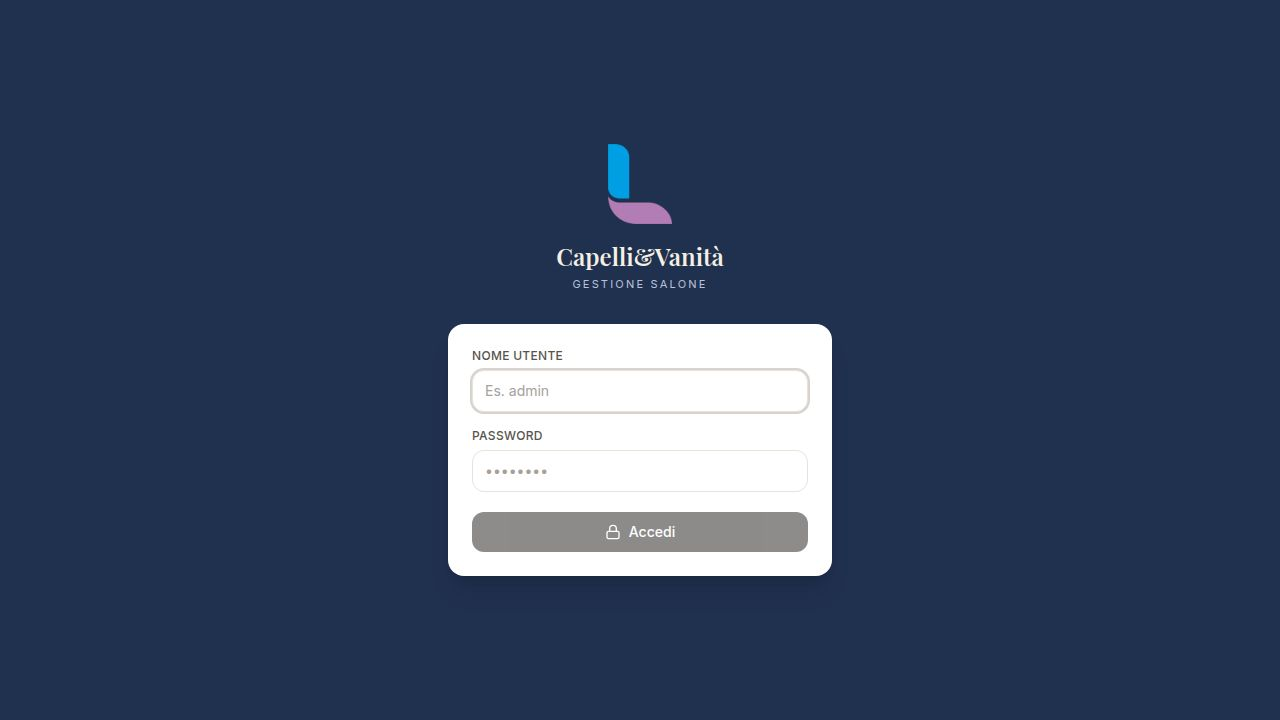
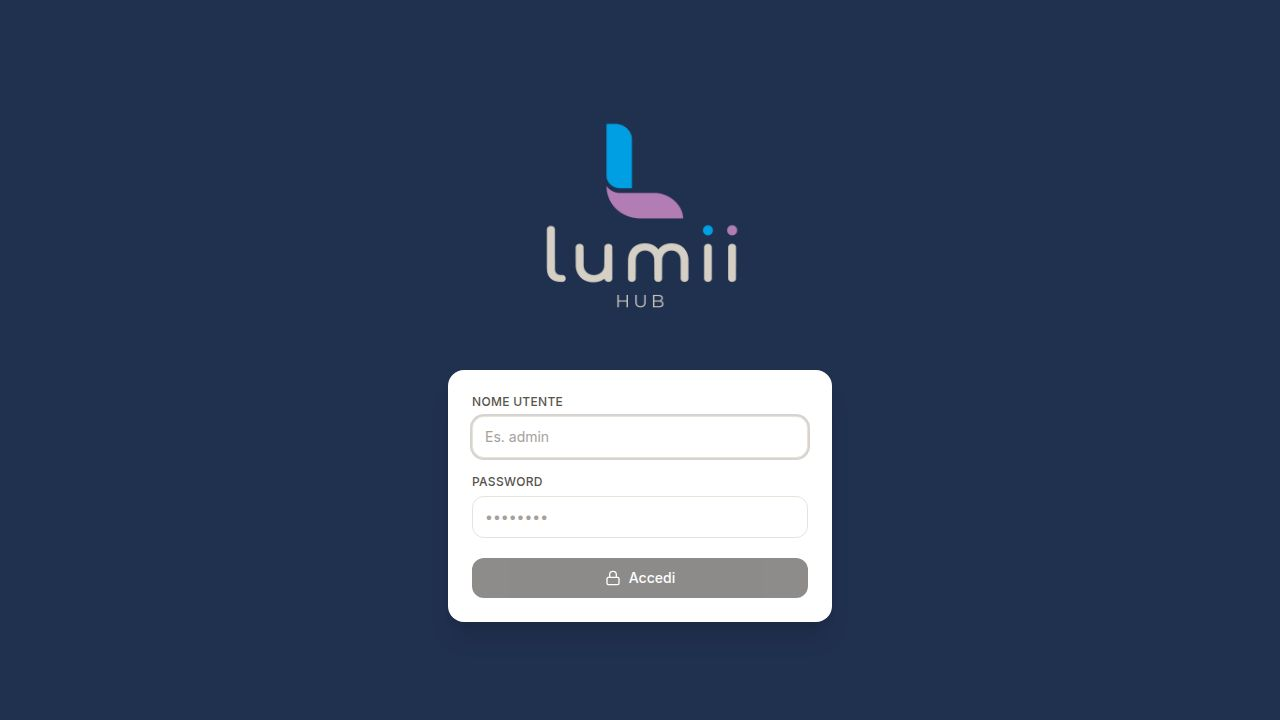
feat(pwa): avviso "Nuova versione disponibile" con tasto Aggiorna (Task #59)
Col service worker attivo, dopo un deploy gli utenti restavano sulla
versione in cache finché non chiudevano tutte le schede. Ora un banner
avvisa e permette di aggiornare subito.

Implementazione (solo frontend, @user/hirhub):
- vite.config.ts: registerType "autoUpdate" -> "prompt" (il nuovo SW resta
  in attesa invece di applicarsi in silenzio; skipWaiting via messaggio).
- Nuovo src/components/PwaReloadPrompt.tsx con useRegisterSW
  (virtual:pwa-register/react): se needRefresh mostra "Nuova versione
  disponibile" + "Aggiorna" (updateServiceWorker(true) => skipWaiting +
  reload) e una X per chiudere; null quando non c'è update.
- Montato in App.tsx accanto a <Toaster /> (fuori da AppGate, visibile
  anche in login).
- src/vite-env.d.ts: reference types per il modulo virtuale.
- devDependency workbox-window@7.4.1 (richiesta dal modulo; senza, build KO).

Aggiunta oltre al testo del task: controllo aggiornamenti periodico (1h,
onRegisteredSW + registration.update, solo se online) così una PWA tenuta
aperta tutto il giorno nota comunque le nuove versioni — serve all'obiettivo.

Deploy: rigenerato bundle lumii-app/ (frontend+server), rimosso il vecchio
registerSW.js (autoUpdate). BUILD_VERSION -> pwa-update-2026-06-11. Con più
task PWA in corso, un rebuild finale di lumii-app/ va rifatto dopo i merge.

Verifica: typecheck OK, build OK, sw.js message-gated, index.html un solo
script (no doppia registrazione), no-op in dev. Architect: PASS.

Changed region(s): [[0.3438, 0.1528, 0.6562, 0.8861]]

diff --git a/artifacts/hirhub/src/components/PwaReloadPrompt.tsx b/artifacts/hirhub/src/components/PwaReloadPrompt.tsx
@@ -1,0 +1,51 @@
+import { useRegisterSW } from 'virtual:pwa-register/react';
+import { RefreshCw, X } from 'lucide-react';
+
+// Check for a newer deploy periodically: an installed PWA kept open all day
+// (a salon front desk) would otherwise only notice updates on the next launch.
+const UPDATE_CHECK_INTERVAL_MS = 60 * 60 * 1000; // 1h
+
+export function PwaReloadPrompt() {
+  const {
+    needRefresh: [needRefresh, setNeedRefresh],
+    updateServiceWorker,
+  } = useRegisterSW({
+    onRegisteredSW(_swUrl, registration) {
+      if (!registration) return;
+      setInterval(() => {
+        if (!navigator.onLine) return;
+        registration.update().catch(() => {});
+      }, UPDATE_CHECK_INTERVAL_MS);
+    },
+  });
+
+  if (!needRefresh) return null;
+
+  return (
+    <div
+      role="alert"
+      className="fixed bottom-28 md:bottom-8 left-1/2 -translate-x-1/2 z-[10001] w-[calc(100vw-2rem)] max-w-sm"
+    >
+      <div
+        className="flex items-center gap-3 px-4 py-3 rounded-2xl shadow-xl text-sm"
+        style={{ background: 'var(--color-brand-dark)', color: '#F5F0E3' }}
+      >
+        <RefreshCw className="w-4 h-4 shrink-0 opacity-80" />
+        <span className="flex-1 font-medium">Nuova versione disponibile</span>
+        <button
+          onClick={() => updateServiceWorker(true)}
+          className="shrink-0 rounded-lg px-3 py-1.5 text-xs font-semibold bg-white/15 hover:bg-white/25 transition-colors"
+        >
+          Aggiorna
+        </button>
+        <button
+          onClick={() => setNeedRefresh(false)}
+          aria-label="Chiudi"
+          className="shrink-0 opacity-60 hover:opacity-100 transition-opacity"
+        >
+          <X className="w-4 h-4" />
+        </button>
+      </div>
+    </div>
+  );
+}

diff --git a/lumii-app/public/index.html b/lumii-app/public/index.html
@@ -15,9 +15,9 @@
     <link rel="preconnect" href="https://fonts.googleapis.com">
     <link rel="preconnect" href="https://fonts.gstatic.com" crossorigin>
     <link href="https://fonts.googleapis.com/css2?family=Inter:wght@400;500;600;700&display=swap" rel="stylesheet">
-    <script type="module" crossorigin src="/assets/index-DUAe65US.js"></script>
-    <link rel="stylesheet" crossorigin href="/assets/index-BZhQcItQ.css">
-  <link rel="manifest" href="/manifest.webmanifest"><script id="vite-plugin-pwa:register-sw" src="/registerSW.js"></script></head>
+    <script type="module" crossorigin src="/assets/index-RXGjO6um.js"></script>
+    <link rel="stylesheet" crossorigin href="/assets/index-CNQ0jW_i.css">
+  <link rel="manifest" href="/manifest.webmanifest"></head>
   <body>
     <div id="root"></div>
   </body>

diff --git a/artifacts/api-server/src/routes/health.ts b/artifacts/api-server/src/routes/health.ts
@@ -6,7 +6,7 @@ const router: IRouter = Router();
 // Build marker — bump when shipping a deploy you need to confirm went live.
 // Public (no auth) so it can be checked with a simple GET after a deploy:
 //   curl https://<dominio>/api/version
-const BUILD_VERSION = "logo-mobile-2026-06-11";
+const BUILD_VERSION = "pwa-update-2026-06-11";
 
 router.get("/healthz", (_req, res) => {
   const data = HealthCheckResponse.parse({ status: "ok" });

diff --git a/artifacts/hirhub/src/App.tsx b/artifacts/hirhub/src/App.tsx
@@ -13,6 +13,7 @@ import { Settings } from './pages/Settings';
 import { Users } from './pages/Users';
 import { Login } from './pages/Login';
 import { Toaster } from './components/Toast';
+import { PwaReloadPrompt } from './components/PwaReloadPrompt';
 import { AuthProvider, useAuth } from './lib/auth-context';
 import { BRAND_PRESETS, DEFAULT_PALETTE, paletteFromCustomColor, applyBrandPalette, saveBrandPalette } from './lib/brand-color';
 
@@ -86,6 +87,7 @@ export default function App() {
           <BrandColorSync />
           <AppGate />
           <Toaster />
+          <PwaReloadPrompt />
         </AuthProvider>
       </BrowserRouter>
     </QueryClientProvider>

diff --git a/artifacts/hirhub/src/vite-env.d.ts b/artifacts/hirhub/src/vite-env.d.ts
@@ -1,0 +1,2 @@
+/// <reference types="vite/client" />
+/// <reference types="vite-plugin-pwa/react" />

diff --git a/artifacts/hirhub/vite.config.ts b/artifacts/hirhub/vite.config.ts
@@ -25,7 +25,7 @@ export default defineConfig({
     tailwindcss(),
     runtimeErrorOverlay(),
     VitePWA({
-      registerType: "autoUpdate",
+      registerType: "prompt",
       injectRegister: "auto",
       includeAssets: [
         "favicon-32x32.png",

diff --git a/lumii-app/public/assets/workbox-window.prod.es5-BBnX5xw4.js b/lumii-app/public/assets/workbox-window.prod.es5-BBnX5xw4.js
@@ -1,0 +1,2 @@
+try{self["workbox:window:7.4.0"]&&_()}catch{}function b(t,r){return new Promise((function(n){var u=new MessageChannel;u.port1.onmessage=function(s){n(s.data)},t.postMessage(r,[u.port2])}))}function P(t,r){(r==null||r>t.length)&&(r=t.length);for(var n=0,u=Array(r);n<r;n++)u[n]=t[n];return u}function j(t,r,n){return r&&(function(u,s){for(var c=0;c<s.length;c++){var o=s[c];o.enumerable=o.enumerable||!1,o.configurable=!0,"value"in o&&(o.writable=!0),Object.defineProperty(u,W(o.key),o)}})(t.prototype,r),Object.defineProperty(t,"prototype",{writable:!1}),t}function S(t,r){var n=typeof Symbol<"u"&&t[Symbol.iterator]||t["@@iterator"];if(n)return(n=n.call(t)).next.bind(n);if(Array.isArray(t)||(n=(function(s,c){if(s){if(typeof s=="string")return P(s,c);var o={}.toString.call(s).slice(8,-1);return o==="Object"&&s.constructor&&(o=s.constructor.name),o==="Map"||o==="Set"?Array.from(s):o==="Arguments"||/^(?:Ui|I)nt(?:8|16|32)(?:Clamped)?Array$/.test(o)?P(s,c):void 0}})(t))||r){n&&(t=n);var u=0;return function(){return u>=t.length?{done:!0}:{done:!1,value:t[u++]}}}throw new TypeError(`Invalid attempt to iterate non-iterable instance.
+In order to be iterable, non-array objects must have a [Symbol.iterator]() method.`)}function w(t,r){return w=Object.setPrototypeOf?Object.setPrototypeOf.bind():function(n,u){return n.__proto__=u,n},w(t,r)}function W(t){var r=(function(n,u){if(typeof n!="object"||!n)return n;var s=n[Symbol.toPrimitive];if(s!==void 0){var c=s.call(n,u);if(typeof c!="object")return c;throw new TypeError("@@toPrimitive must return a primitive value.")}return String(n)})(t,"string");return typeof r=="symbol"?r:r+""}try{self["workbox:core:7.4.0"]&&_()}catch{}var m=function(){var t=this;this.promise=new Promise((function(r,n){t.resolve=r,t.reject=n}))};function y(t,r){var n=location.href;return new URL(t,n).href===new URL(r,n).href}var d=function(t,r){this.type=t,Object.assign(this,r)};function l(t,r,n){return t&&t.then||(t=Promise.resolve(t)),r?t.then(r):t}function k(){}var L={type:"SKIP_WAITING"};function E(t,r){return t&&t.then?t.then(k):Promise.resolve()}var O=(function(t){function r(c,o){var e,i;return o===void 0&&(o={}),(e=t.call(this)||this).nn={},e.tn=0,e.rn=new m,e.en=new m,e.on=new m,e.un=0,e.an=new Set,e.cn=function(){var f=e.fn,a=f.installing;e.tn>0||!y(a.scriptURL,e.sn.toString())||performance.now()>e.un+6e4?(e.vn=a,f.removeEventListener("updatefound",e.cn)):(e.hn=a,e.an.add(a),e.rn.resolve(a)),++e.tn,a.addEventListener("statechange",e.ln)},e.ln=function(f){var a=e.fn,v=f.target,h=v.state,p=v===e.vn,g={sw:v,isExternal:p,originalEvent:f};!p&&e.mn&&(g.isUpdate=!0),e.dispatchEvent(new d(h,g)),h==="installed"?e.wn=self.setTimeout((function(){h==="installed"&&a.waiting===v&&e.dispatchEvent(new d("waiting",g))}),200):h==="activating"&&(clearTimeout(e.wn),p||e.en.resolve(v))},e.yn=function(f){var a=e.hn,v=a!==navigator.serviceWorker.controller;e.dispatchEvent(new d("controlling",{isExternal:v,originalEvent:f,sw:a,isUpdate:e.mn})),v||e.on.resolve(a)},e.gn=(i=function(f){var a=f.data,v=f.ports,h=f.source;return l(e.getSW(),(function(){e.an.has(h)&&e.dispatchEvent(new d("message",{data:a,originalEvent:f,ports:v,sw:h}))}))},function(){for(var f=[],a=0;a<arguments.length;a++)f[a]=arguments[a];try{return Promise.resolve(i.apply(this,f))}catch(v){return Promise.reject(v)}}),e.sn=c,e.nn=o,navigator.serviceWorker.addEventListener("message",e.gn),e}var n,u;u=t,(n=r).prototype=Object.create(u.prototype),n.prototype.constructor=n,w(n,u);var s=r.prototype;return s.register=function(c){var o=(c===void 0?{}:c).immediate,e=o!==void 0&&o;try{var i=this;return l((function(f,a){var v=f();return v&&v.then?v.then(a):a(v)})((function(){if(!e&&document.readyState!=="complete")return E(new Promise((function(f){return window.addEventListener("load",f)})))}),(function(){return i.mn=!!navigator.serviceWorker.controller,i.dn=i.pn(),l(i.bn(),(function(f){i.fn=f,i.dn&&(i.hn=i.dn,i.en.resolve(i.dn),i.on.resolve(i.dn),i.dn.addEventListener("statechange",i.ln,{once:!0}));var a=i.fn.waiting;return a&&y(a.scriptURL,i.sn.toString())&&(i.hn=a,Promise.resolve().then((function(){i.dispatchEvent(new d("waiting",{sw:a,wasWaitingBeforeRegister:!0}))})).then((function(){}))),i.hn&&(i.rn.resolve(i.hn),i.an.add(i.hn)),i.fn.addEventListener("updatefound",i.cn),navigator.serviceWorker.addEventListener("controllerchange",i.yn),i.fn}))})))}catch(f){return Promise.reject(f)}},s.update=function(){try{return this.fn?l(E(this.fn.update())):l()}catch(c){return Promise.reject(c)}},s.getSW=function(){return this.hn!==void 0?Promise.resolve(this.hn):this.rn.promise},s.messageSW=function(c){try{return l(this.getSW(),(function(o){return b(o,c)}))}catch(o){return Promise.reject(o)}},s.messageSkipWaiting=function(){this.fn&&this.fn.waiting&&b(this.fn.waiting,L)},s.pn=function(){var c=navigator.serviceWorker.controller;return c&&y(c.scriptURL,this.sn.toString())?c:void 0},s.bn=function(){try{var c=this;return l((function(o,e){try{var i=o()}catch(f){return e(f)}return i&&i.then?i.then(void 0,e):i})((function(){return l(navigator.serviceWorker.register(c.sn,c.nn),(function(o){return c.un=performance.now(),o}))}),(function(o){throw o})))}catch(o){return Promise.reject(o)}},j(r,[{key:"active",get:function(){return this.en.promise}},{key:"controlling",get:function(){return this.on.promise}}])})((function(){function t(){this.Pn=new Map}var r=t.prototype;return r.addEventListener=function(n,u){this.jn(n).add(u)},r.removeEventListener=function(n,u){this.jn(n).delete(u)},r.dispatchEvent=function(n){n.target=this;for(var u,s=S(this.jn(n.type));!(u=s()).done;)(0,u.value)(n)},r.jn=function(n){return this.Pn.has(n)||this.Pn.set(n,new Set),this.Pn.get(n)},t})());export{O as Workbox,d as WorkboxEvent,b as messageSW};

diff --git a/lumii-app/public/sw.js b/lumii-app/public/sw.js
@@ -1,1 +1,1 @@
-if(!self.define){let e,i={};const n=(n,s)=>(n=new URL(n+".js",s).href,i[n]||new Promise(i=>{if("document"in self){const e=document.createElement("script");e.src=n,e.onload=i,document.head.appendChild(e)}else e=n,importScripts(n),i()}).then(()=>{let e=i[n];if(!e)throw new Error(`Module ${n} didn’t register its module`);return e}));self.define=(s,r)=>{const c=e||("document"in self?document.currentScript.src:"")||location.href;if(i[c])return;let a={};const o=e=>n(e,c),l={module:{uri:c},exports:a,require:o};i[c]=Promise.all(s.map(e=>l[e]||o(e))).then(e=>(r(...e),a))}}define(["./workbox-9c191d2f"],function(e){"use strict";self.skipWaiting(),e.clientsClaim(),e.precacheAndRoute([{url:"registerSW.js",revision:"1872c500de691dce40960bb85481de07"},{url:"pwa-512x512.png",revision:"5d4a425886c9e16d0c62c5910cc8b1ef"},{url:"pwa-192x192.png",revision:"8ec1410dbb66ef721582fbcc1bea878b"},{url:"maskable-512x512.png",revision:"9827891dcbb1914b8ab106d3ab698183"},{url:"manifest.webmanifest",revision:"8781e20f0072f61792593b3fa5e74ab2"},{url:"index.html",revision:"ddba14c95af5839964e529fb21b1547f"},{url:"favicon-32x32.png",revision:"c11a0f8ab9a56334d89ff4125cce5527"},{url:"favicon-16x16.png",revision:"cc838a6e689f604cc003daf74741a75d"},{url:"apple-touch-icon.png",revision:"a4a070bf252692b59e318f1f566d4b3d"},{url:"assets/lumii-logo-jvastGDb.png",revision:null},{url:"assets/lumii-logo-full-pW3CVRTj.png",revision:null},{url:"assets/index-DUAe65US.js",revision:null},{url:"assets/index-BZhQcItQ.css",revision:null},{url:"apple-touch-icon.png",revision:"a4a070bf252692b59e318f1f566d4b3d"},{url:"favicon-16x16.png",revision:"cc838a6e689f604cc003daf74741a75d"},{url:"favicon-32x32.png",revision:"c11a0f8ab9a56334d89ff4125cce5527"},{url:"maskable-512x512.png",revision:"9827891dcbb1914b8ab106d3ab698183"},{url:"pwa-192x192.png",revision:"8ec1410dbb66ef721582fbcc1bea878b"},{url:"pwa-512x512.png",revision:"5d4a425886c9e16d0c62c5910cc8b1ef"},{url:"manifest.webmanifest",revision:"8781e20f0072f61792593b3fa5e74ab2"}],{}),e.cleanupOutdatedCaches(),e.registerRoute(new e.NavigationRoute(e.createHandlerBoundToURL("index.html"),{denylist:[/^\/api/]}))});
+if(!self.define){let e,i={};const n=(n,s)=>(n=new URL(n+".js",s).href,i[n]||new Promise(i=>{if("document"in self){const e=document.createElement("script");e.src=n,e.onload=i,document.head.appendChild(e)}else e=n,importScripts(n),i()}).then(()=>{let e=i[n];if(!e)throw new Error(`Module ${n} didn’t register its module`);return e}));self.define=(s,r)=>{const c=e||("document"in self?document.currentScript.src:"")||location.href;if(i[c])return;let o={};const a=e=>n(e,c),l={module:{uri:c},exports:o,require:a};i[c]=Promise.all(s.map(e=>l[e]||a(e))).then(e=>(r(...e),o))}}define(["./workbox-9c191d2f"],function(e){"use strict";self.addEventListener("message",e=>{e.data&&"SKIP_WAITING"===e.data.type&&self.skipWaiting()}),e.clientsClaim(),e.precacheAndRoute([{url:"pwa-512x512.png",revision:"5d4a425886c9e16d0c62c5910cc8b1ef"},{url:"pwa-192x192.png",revision:"8ec1410dbb66ef721582fbcc1bea878b"},{url:"maskable-512x512.png",revision:"9827891dcbb1914b8ab106d3ab698183"},{url:"manifest.webmanifest",revision:"d6f2487544572aa9846272b4a00dd7bc"},{url:"index.html",revision:"649162e85669ffc32ed2963ff7c045bd"},{url:"favicon-32x32.png",revision:"c11a0f8ab9a56334d89ff4125cce5527"},{url:"favicon-16x16.png",revision:"cc838a6e689f604cc003daf74741a75d"},{url:"apple-touch-icon.png",revision:"a4a070bf252692b59e318f1f566d4b3d"},{url:"assets/workbox-window.prod.es5-BBnX5xw4.js",revision:null},{url:"assets/lumii-logo-jvastGDb.png",revision:null},{url:"assets/lumii-logo-full-pW3CVRTj.png",revision:null},{url:"assets/index-RXGjO6um.js",revision:null},{url:"assets/index-CNQ0jW_i.css",revision:null},{url:"apple-touch-icon.png",revision:"a4a070bf252692b59e318f1f566d4b3d"},{url:"favicon-16x16.png",revision:"cc838a6e689f604cc003daf74741a75d"},{url:"favicon-32x32.png",revision:"c11a0f8ab9a56334d89ff4125cce5527"},{url:"maskable-512x512.png",revision:"9827891dcbb1914b8ab106d3ab698183"},{url:"pwa-192x192.png",revision:"8ec1410dbb66ef721582fbcc1bea878b"},{url:"pwa-512x512.png",revision:"5d4a425886c9e16d0c62c5910cc8b1ef"},{url:"manifest.webmanifest",revision:"d6f2487544572aa9846272b4a00dd7bc"}],{}),e.cleanupOutdatedCaches(),e.registerRoute(new e.NavigationRoute(e.createHandlerBoundToURL("index.html"),{denylist:[/^\/api/]}))});